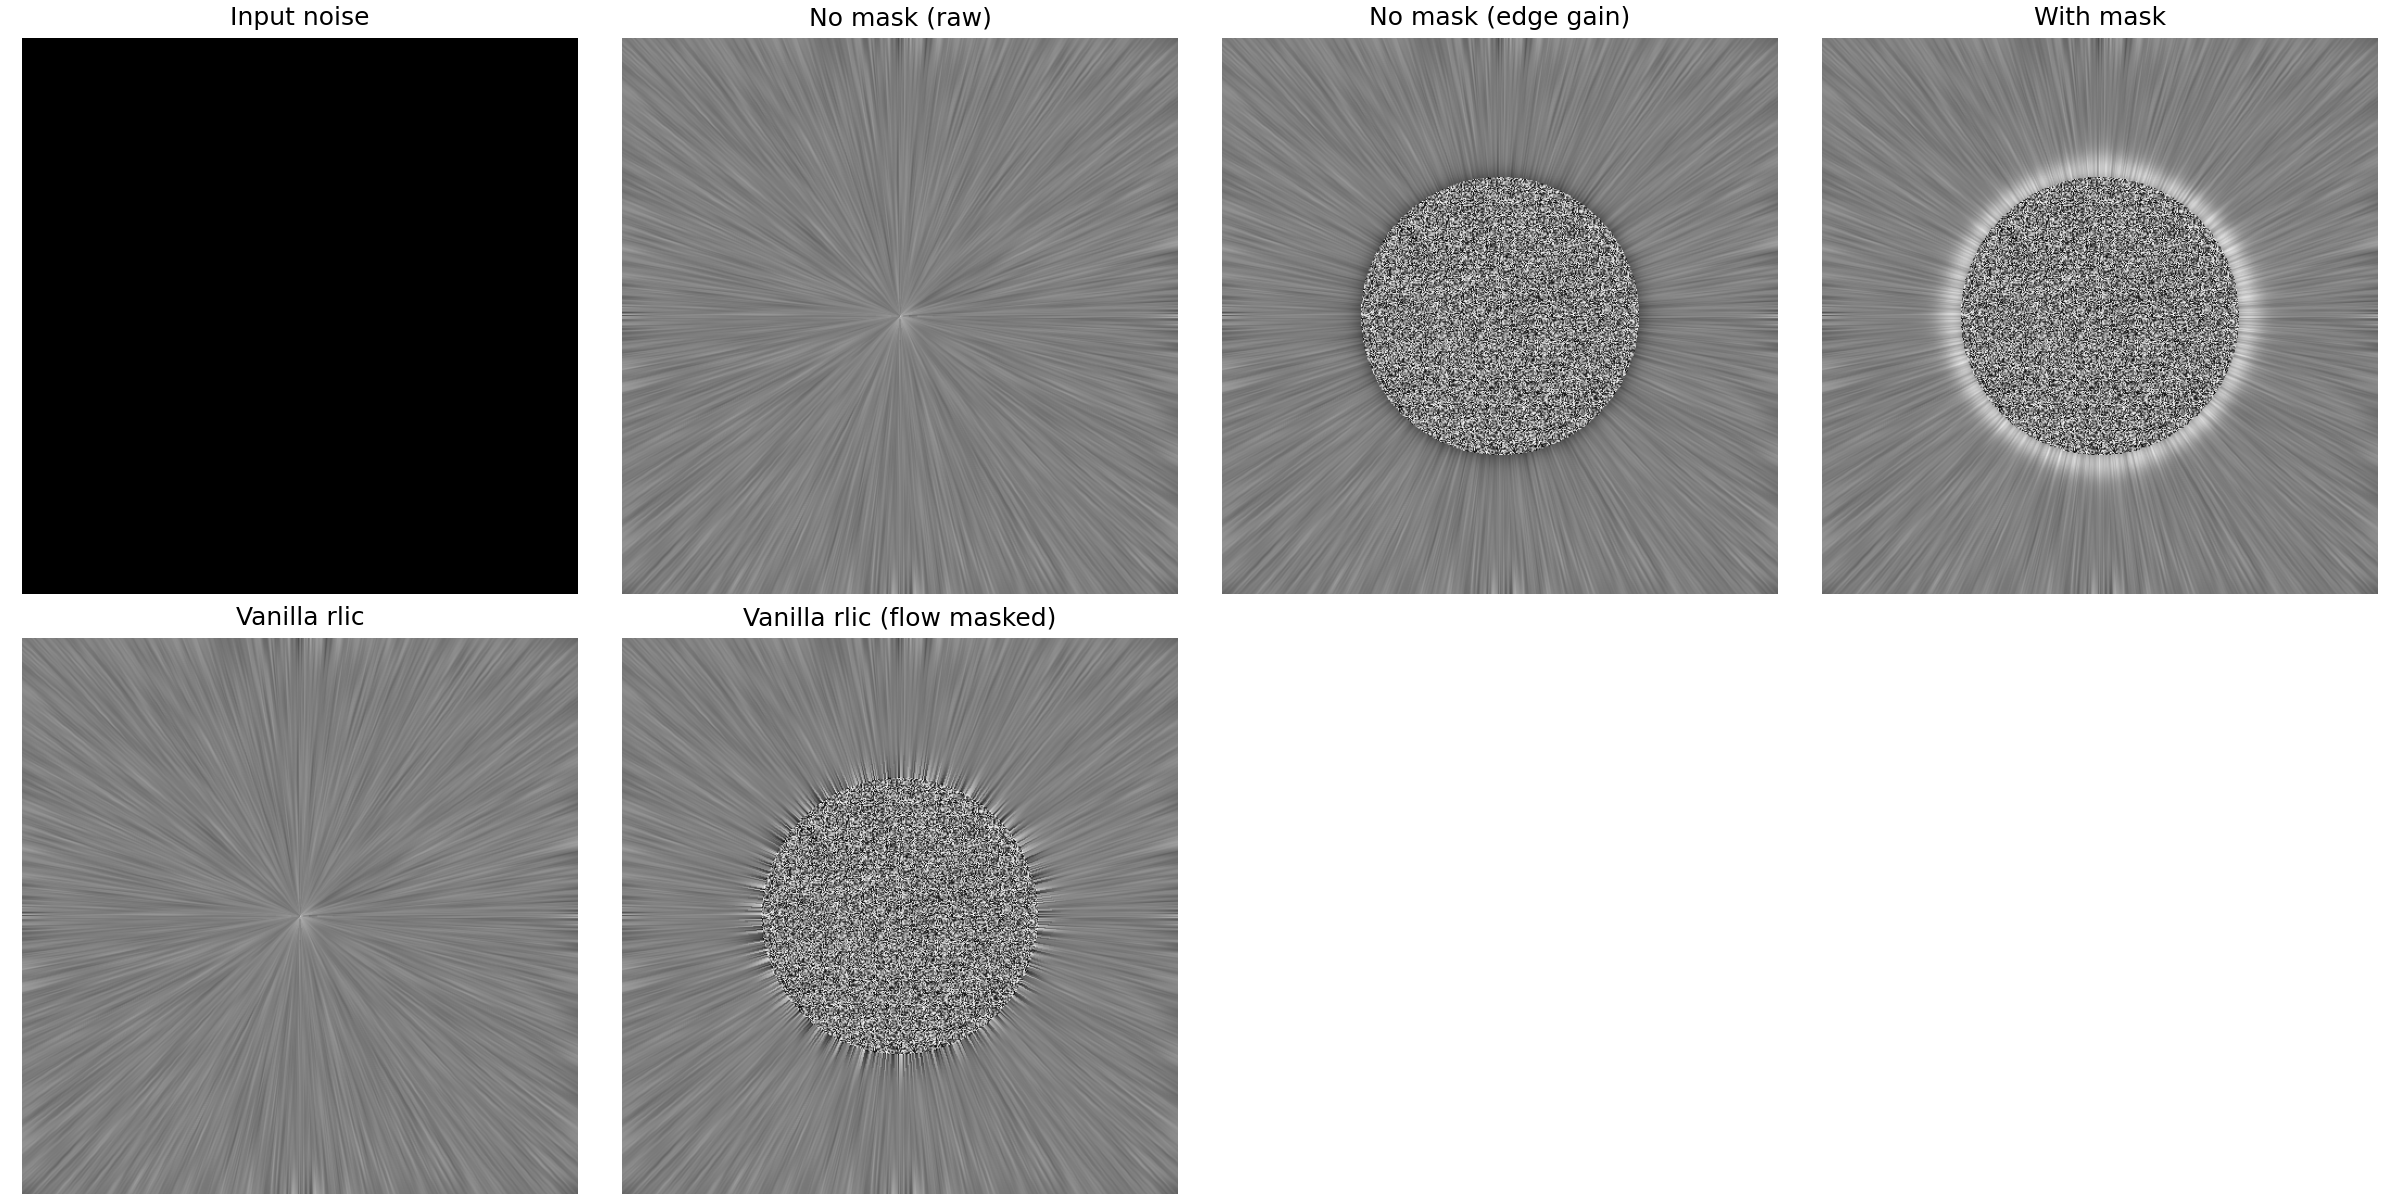
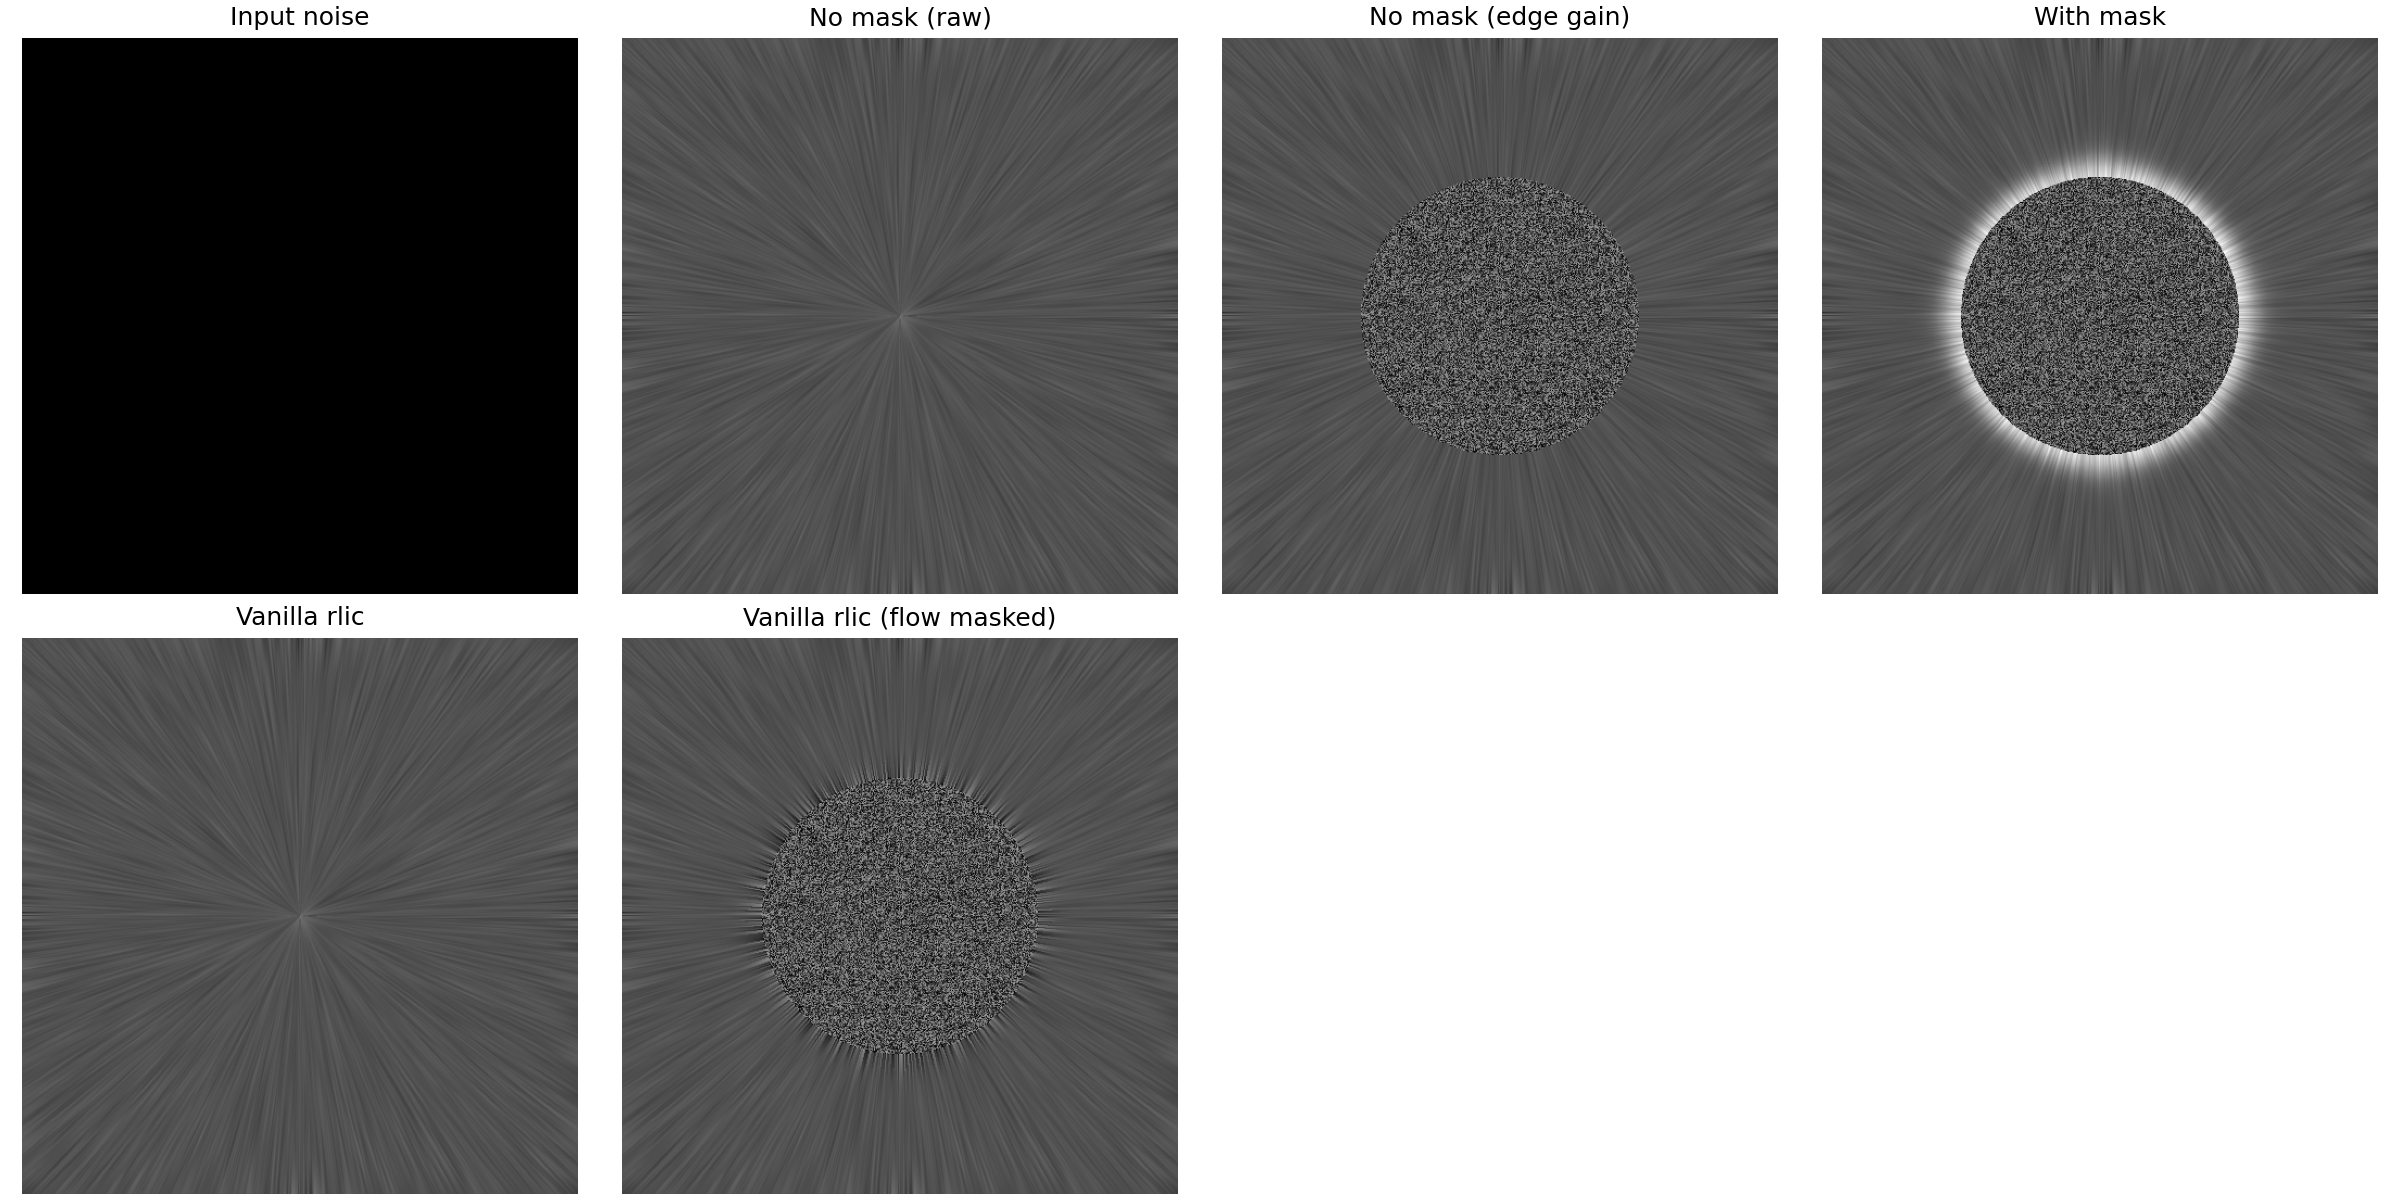
remove shadow

diff --git a/scripts/debug_mask_compare.py b/scripts/debug_mask_compare.py
@@ -171,13 +171,13 @@ def maybe_plot(
     result_vanilla: np.ndarray,
     result_vanilla_masked: np.ndarray,
     result_nomask_raw: np.ndarray,
-    result_nomask_gain: np.ndarray,
+    result_mask_nogain: np.ndarray,
     result_masked: np.ndarray,
 ) -> None:
     results = [
         texture,
         result_nomask_raw,
-        result_nomask_gain,
+        result_mask_nogain,
         result_masked,
         result_vanilla,
         result_vanilla_masked,
@@ -206,17 +206,17 @@ def maybe_plot(
     axes[0, 0].axis("off")
 
     axes[0, 1].imshow(result_nomask_raw, cmap="gray", vmin=global_min, vmax=global_max)
-    axes[0, 1].set_title("No mask (raw)")
+    axes[0, 1].set_title("Raw")
     axes[0, 1].axis("off")
 
     axes[0, 2].imshow(
-        result_nomask_gain, cmap="gray", vmin=global_min, vmax=global_max
+        result_mask_nogain, cmap="gray", vmin=global_min, vmax=global_max
     )
-    axes[0, 2].set_title("No mask (edge gain)")
+    axes[0, 2].set_title("Mask, no edge gain gain")
     axes[0, 2].axis("off")
 
     axes[0, 3].imshow(result_masked, cmap="gray", vmin=global_min, vmax=global_max)
-    axes[0, 3].set_title("With mask")
+    axes[0, 3].set_title("Mask, edge gain")
     axes[0, 3].axis("off")
 
     axes[1, 0].imshow(result_vanilla, cmap="gray", vmin=global_min, vmax=global_max)

diff --git a/src/lib.rs b/src/lib.rs
@@ -465,10 +465,8 @@ fn compute_pixel<T: AtLeastF32>(
                 support_factor = one;
             }
 
-            if support_factor > zero && used_sum > zero && used_sum < full_sum {
-                let scale = full_sum / used_sum;
-                let renorm = (scale - one).mul_add(support_factor, one);
-                value = renorm * value;
+            if used_sum > zero && used_sum < full_sum {
+                value = (full_sum / used_sum) * value;
             }
             if edge_gain_strength > zero && full_sum > zero && support_factor > zero {
                 let mut t = (full_sum - used_sum) / full_sum;
